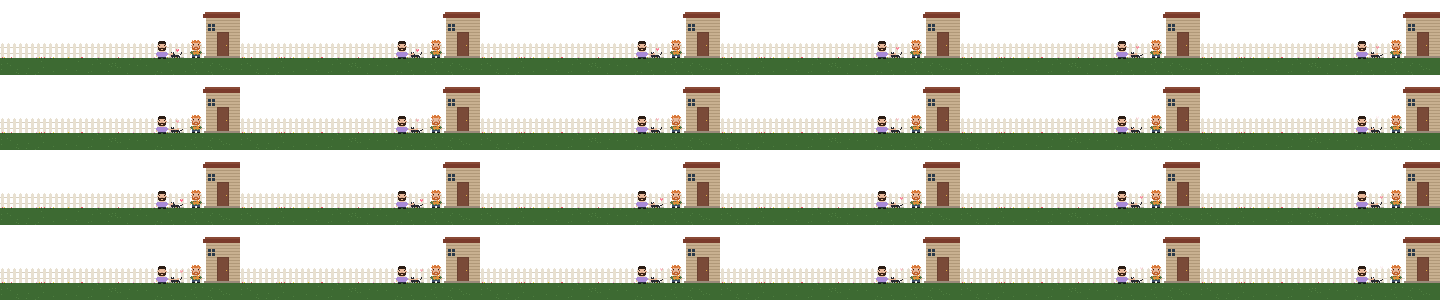
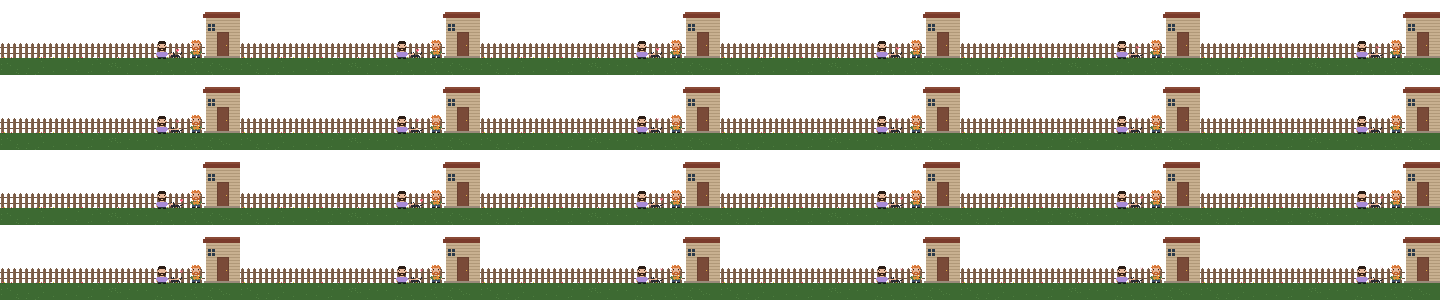
Darken the garden fence so the title stands out against it
Claude-Session: https://claude.ai/code/session_015RvhGxofvxVPGEuMdLFVip

diff --git a/tools/scenes/activities.js b/tools/scenes/activities.js
@@ -243,8 +243,8 @@ const ACTIVITIES = (() => {
     const rnd = rng(31);
     cloud(g, 150, 12, 22); cloud(g, 40, 8, 18); cloud(g, 100, 16, 12);
     // Fence, a house with a porch, grass and flowers.
-    g.rect(0, 47, 205, 1, "#d8d0c0"); g.rect(0, 53, 205, 1, "#d8d0c0");
-    for (let x = 1; x < 205; x += 6) { g.rect(x, 44, 3, 14, "#e8e0d0"); g.px(x + 1, 43, "#e8e0d0"); }
+    g.rect(0, 47, 205, 1, "#6a5040"); g.rect(0, 53, 205, 1, "#6a5040");
+    for (let x = 1; x < 205; x += 6) { g.rect(x, 44, 3, 14, "#7a5c46"); g.px(x + 1, 43, "#7a5c46"); g.rect(x, 44, 1, 14, "#8a6a52"); }
     g.rect(206, 18, 34, 40, "#c8b090");
     for (let y = 20; y < 58; y += 3) g.rect(206, y, 34, 1, "#b09878");
     g.rect(203, 14, 37, 4, "#7a3a2a"); g.rect(205, 12, 35, 2, "#8a4a36");
